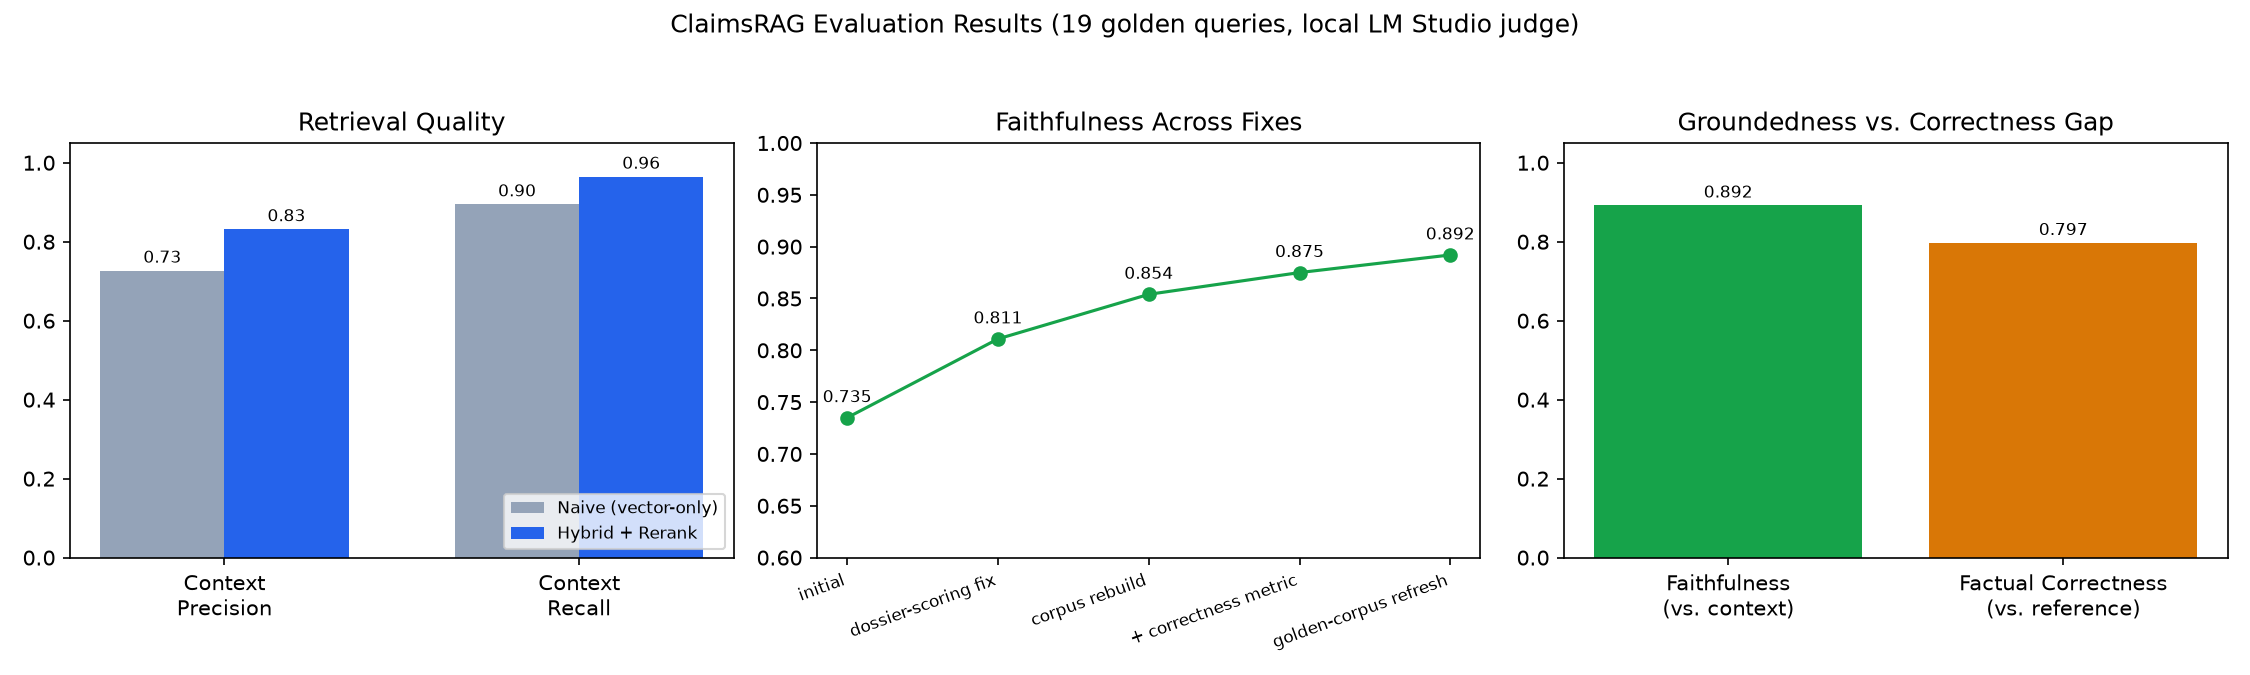
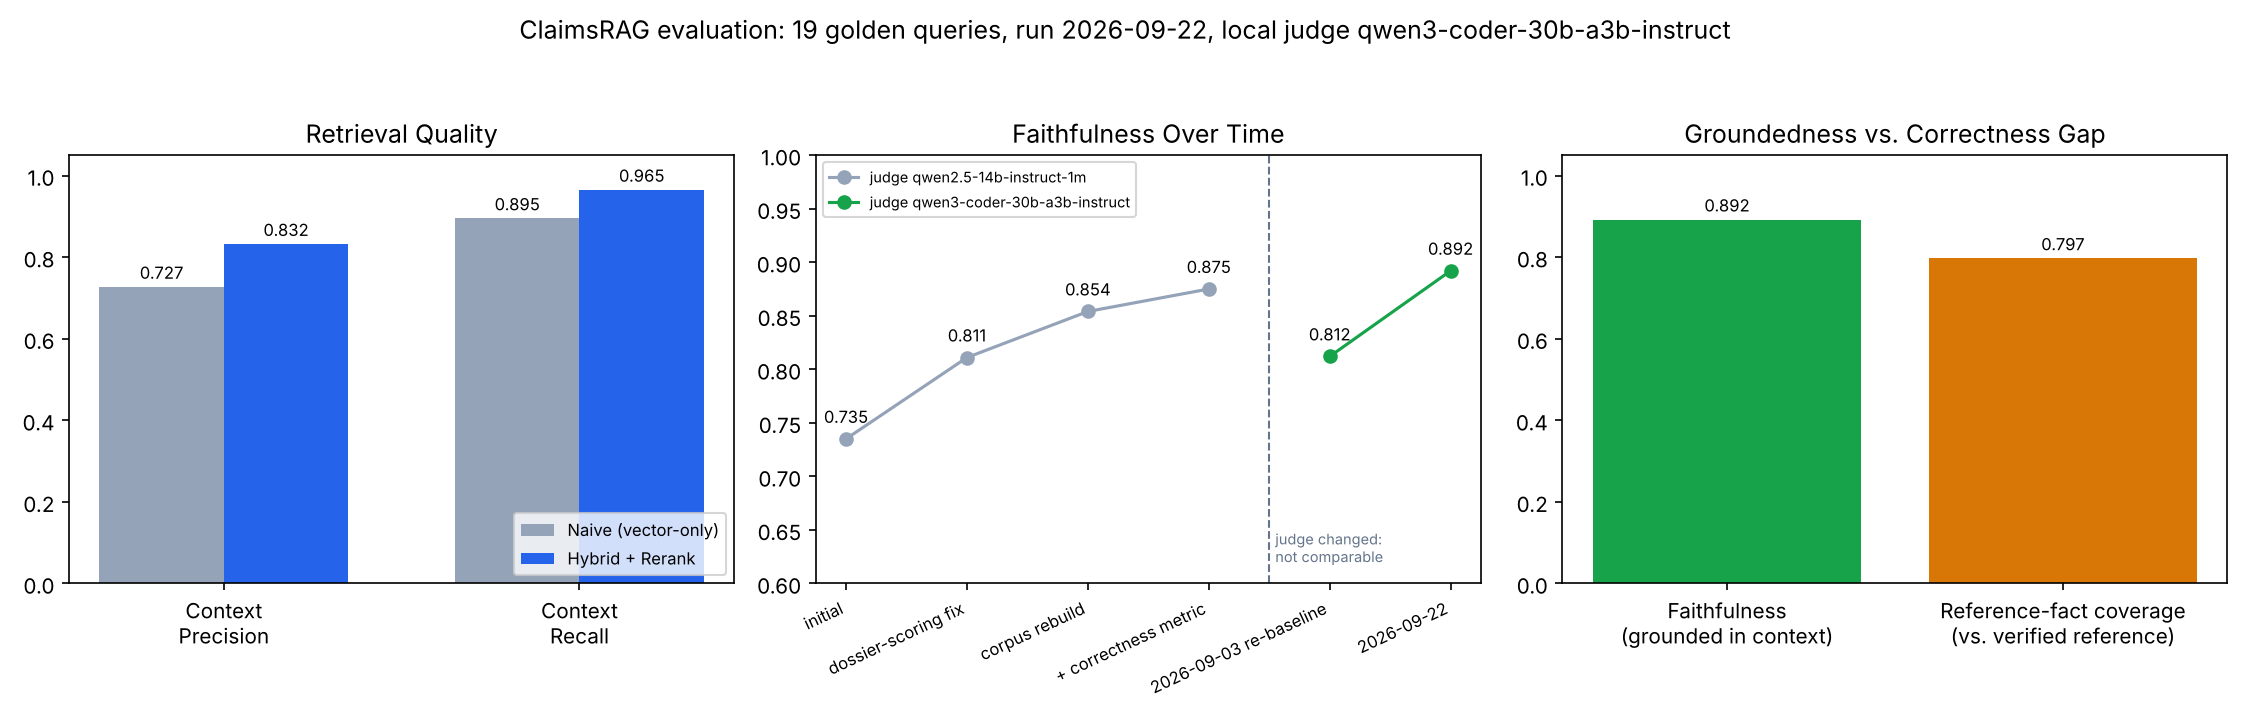
docs: correct the README eval chart and date the demo GIF
eval_results.png was current in its numbers but mislabeled the latest
Faithfulness point 'golden-corpus refresh' and drew one line across a
judge-model change the docs call non-comparable. plot_results.py now
splits the trend by judge (old series, dashed 'judge changed' divider,
2026-09-03 re-baseline -> latest), titles the chart with run date and
judge, prints 3 decimals to match the README table (0.965, not 0.96),
and names the third metric 'reference-fact coverage' as the README does.
Usage line fixed to .venv/bin/python.

The demo GIF caption now says it was recorded 2026-07-19 with
qwen2.5-14b-instruct-1m and predates the sign-in gate, streaming, and the
server-side answer guard / conflict check.

Claude-Session: https://claude.ai/code/session_01NxdmspEGzjDDABLhz6uYLT

diff --git a/eval/plot_results.py b/eval/plot_results.py
@@ -5,20 +5,27 @@ Run this after any eval/run_eval.py rerun so the README chart never goes
 stale next to the numbers in its own table.
 
 Usage:
-    .venv/Scripts/python.exe eval/plot_results.py
+    .venv/bin/python eval/plot_results.py
 """
 import json
 from pathlib import Path
 
 import matplotlib.pyplot as plt
 
-# Faithfulness's historical progression isn't in results.json (which only
-# holds the latest run) -- these are the three prior committed values from
-# CLAUDE.md's Debugging History / Build Plan, kept here only for the chart's
-# trend line. Update this tuple by hand if a future session adds another
-# fix-driven Faithfulness data point worth showing.
-FAITHFULNESS_HISTORY = [0.735, 0.811, 0.854, 0.875]
-FAITHFULNESS_HISTORY_LABELS = ["initial", "dossier-scoring fix", "corpus rebuild", "+ correctness metric"]
+# results.json holds only the latest run and no date, so the date the README
+# quotes for it lives here. Update it with every eval/run_eval.py rerun.
+LATEST_RUN_DATE = "2026-09-22"
+
+# Faithfulness history isn't in results.json either -- these are committed
+# values from docs/build-history.md / docs/current-state.md, kept only for the
+# trend panel. Judge-model changes break comparability (current-state Known
+# Issues), so each judge gets its own series and they are never joined.
+FAITHFULNESS_OLD_JUDGE = "qwen2.5-14b-instruct-1m"
+FAITHFULNESS_OLD = [0.735, 0.811, 0.854, 0.875]
+FAITHFULNESS_OLD_LABELS = ["initial", "dossier-scoring fix", "corpus rebuild", "+ correctness metric"]
+# Current judge: the 2026-09-03 re-baseline, then the latest run (appended from results.json).
+FAITHFULNESS_NEW = [0.812]
+FAITHFULNESS_NEW_LABELS = ["2026-09-03 re-baseline"]
 
 ROOT = Path(__file__).resolve().parent.parent
 
@@ -27,11 +34,15 @@ def main():
     results_path = ROOT / "eval" / "results.json"
     summary = json.loads(results_path.read_text(encoding="utf-8"))["summary"]
 
-    faithfulness_trend = FAITHFULNESS_HISTORY + [summary["faithfulness_avg"]]
-    faithfulness_labels = FAITHFULNESS_HISTORY_LABELS + ["golden-corpus refresh"]
+    new_trend = FAITHFULNESS_NEW + [summary["faithfulness_avg"]]
+    new_labels = FAITHFULNESS_NEW_LABELS + [LATEST_RUN_DATE]
 
-    fig, axes = plt.subplots(1, 3, figsize=(15, 4.5))
-    fig.suptitle("ClaimsRAG Evaluation Results (19 golden queries, local LM Studio judge)", fontsize=12)
+    fig, axes = plt.subplots(1, 3, figsize=(15, 4.8))
+    fig.suptitle(
+        f"ClaimsRAG evaluation: {summary['n_queries']} golden queries, run {LATEST_RUN_DATE}, "
+        f"local judge {summary['model']}",
+        fontsize=12,
+    )
 
     # Panel 1: Context Precision / Recall, naive vs hybrid+rerank
     ax = axes[0]
@@ -47,24 +58,31 @@ def main():
     ax.set_ylim(0, 1.05)
     ax.set_title("Retrieval Quality")
     ax.legend(loc="lower right", fontsize=8)
+    # Three decimals, matching the README table.
     for i, v in enumerate(naive_vals):
-        ax.text(i - width / 2, v + 0.02, f"{v:.2f}", ha="center", fontsize=8)
+        ax.text(i - width / 2, v + 0.02, f"{v:.3f}", ha="center", fontsize=8)
     for i, v in enumerate(hybrid_vals):
-        ax.text(i + width / 2, v + 0.02, f"{v:.2f}", ha="center", fontsize=8)
+        ax.text(i + width / 2, v + 0.02, f"{v:.3f}", ha="center", fontsize=8)
 
-    # Panel 2: Faithfulness trend across fixes
+    # Panel 2: Faithfulness over time, one unjoined series per judge model
     ax = axes[1]
-    ax.plot(range(len(faithfulness_trend)), faithfulness_trend, marker="o", color="#16a34a")
-    ax.set_xticks(range(len(faithfulness_trend)))
-    ax.set_xticklabels(faithfulness_labels, rotation=20, ha="right", fontsize=8)
+    old_x = list(range(len(FAITHFULNESS_OLD)))
+    new_x = [len(old_x) + i for i in range(len(new_trend))]
+    ax.plot(old_x, FAITHFULNESS_OLD, marker="o", color="#94a3b8", label=f"judge {FAITHFULNESS_OLD_JUDGE}")
+    ax.plot(new_x, new_trend, marker="o", color="#16a34a", label=f"judge {summary['model']}")
+    ax.axvline(len(old_x) - 0.5, color="#64748b", linestyle="--", linewidth=1)
+    ax.text(len(old_x) - 0.45, 0.62, "judge changed:\nnot comparable", fontsize=7, color="#64748b")
+    ax.set_xticks(old_x + new_x)
+    ax.set_xticklabels(FAITHFULNESS_OLD_LABELS + new_labels, rotation=25, ha="right", fontsize=8)
     ax.set_ylim(0.6, 1.0)
-    ax.set_title("Faithfulness Across Fixes")
-    for i, v in enumerate(faithfulness_trend):
+    ax.set_title("Faithfulness Over Time")
+    ax.legend(loc="upper left", fontsize=7)
+    for i, v in zip(old_x + new_x, FAITHFULNESS_OLD + new_trend, strict=True):
         ax.text(i, v + 0.015, f"{v:.3f}", ha="center", fontsize=8)
 
-    # Panel 3: Faithfulness vs Factual Correctness -- the groundedness/correctness gap
+    # Panel 3: Faithfulness vs reference-fact coverage -- the groundedness/correctness gap
     ax = axes[2]
-    labels = ["Faithfulness\n(vs. context)", "Factual Correctness\n(vs. reference)"]
+    labels = ["Faithfulness\n(grounded in context)", "Reference-fact coverage\n(vs. verified reference)"]
     vals = [summary["faithfulness_avg"], summary["correctness_avg"]]
     colors = ["#16a34a", "#d97706"]
     bars = ax.bar(labels, vals, color=colors)

diff --git a/README.md b/README.md
@@ -8,7 +8,7 @@ A local-first, agentic RAG system for auto insurance claims handling — built t
 
 ![ClaimsRAG demo — selecting a theft claim and running an OEM parts rider audit against a local LM Studio model](assets/demo.gif)
 
-*Live demo: selecting a theft claim, then running an "OEM Parts Rider" audit. The agentic router plans sub-queries, retrieves from both global policy documents and the claim's own dossier (police report, parts receipts), and a fully local 14B model synthesizes a grounded, per-line-item answer with clickable source citations.*
+*Live demo: selecting a theft claim, then running an "OEM Parts Rider" audit. The agentic router plans sub-queries, retrieves from both global policy documents and the claim's own dossier (police report, parts receipts), and a fully local 14B model synthesizes a grounded, per-line-item answer with clickable source citations. Recorded 2026-07-19 with `qwen2.5-14b-instruct-1m`; the current UI adds a sign-in gate and streamed answers, and the server now checks answers with the answer guard and conflict check — all of which this recording predates.*
 
 **Jump to:** [Why this exists](#why-this-exists) · [What it does](#what-it-does) · [FAQ (plain English)](#faq-plain-english) · [Architecture](#architecture) · [Evaluation](#evaluation--because-it-looks-right-isnt-good-enough) · [Try it locally](#try-it-locally) · [ICM workflow](#icm-workflow) · [Security posture](#security-posture) · [Known limitations](#known-limitations) · [Tech stack](#tech-stack)
 
